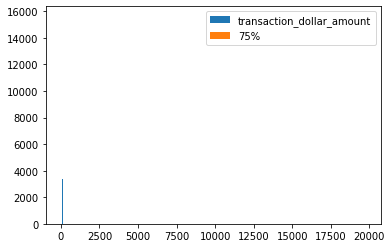
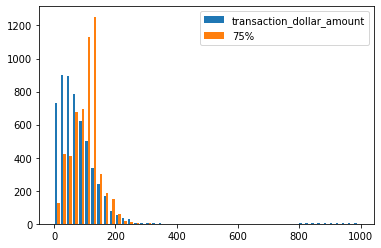
up

Changed region(s): [[0.0, 0.0282, 0.3753, 0.9879], [0.6063, 0.0282, 1.0, 0.9032], [0.231, 0.9032, 0.9816, 0.9879]]

diff --git a/_posts/2020-06-22-Credit-Card-Fraud-Detection.md b/_posts/2020-06-22-Credit-Card-Fraud-Detection.md
@@ -300,6 +300,7 @@ plt.show()
 
 ```python
 ## check the distribution of x3d labels
+
 x3d.label.value_counts()
 ```
 
@@ -318,22 +319,24 @@ x3d.label.value_counts()
 
 
 ```python
-### looks like label 5 is fraud
 
-suspicious_label=5
 
-suspect = credit_df.loc[x3d.label ==5]
+suspicious_label=4
+
+suspect = credit_df.loc[x3d.label ==4]
 
 suspect.to_csv('./suspect',index = False)
 
 cols = ["transaction_dollar_amount",'75%']
 plt.hist(suspect.loc[:,cols].values,bins=50,label=cols)
 plt.legend(loc='best')
+plt.show()
 
 unsuspect = credit_df.loc[x3d.label !=3]
 
 plt.hist(suspect.loc[:,['distance']].values,bins=50,density = True,label = 'suspect')
 plt.hist(unsuspect.loc[:,['distance']].values,bins=50,density = True,label = 'unsuspect')
+plt.legend(loc='best')
 plt.show()
 
 ### deleting 0 distance and replot
@@ -342,6 +345,7 @@ unsuspect = unsuspect.loc[unsuspect.distance>100]
 
 plt.hist(suspect.loc[:,['distance']].values,bins=50,density = True,label = 'suspect')
 plt.hist(unsuspect.loc[:,['distance']].values,bins=50,density = True,label = 'unsuspect')
+plt.legend(loc='best')
 plt.show()
 
 ### Conclusion: Distance is the core factor for detecting the frauds.
@@ -349,7 +353,6 @@ plt.show()
 
 
 
-![png](output_7_0.png)
 <img src="/img/output_777_0.png"/>
 
 
@@ -365,7 +368,8 @@ suspect.shape[0]/credit_df.shape[0]*100
 
 
 
-    38.401767892785855
+1.8483441280703898
+
 
 
 
@@ -378,7 +382,7 @@ suspect['transaction_dollar_amount'].sum()
 
 
 
-    7011068.78
+    444493.55000000005
 
 
 
@@ -400,8 +404,8 @@ r2 = mannwhitneyu(dis_x,dis_y)
 print(r2)
 ```
 
-    (-214.12611385651115, 0.0)
-    MannwhitneyuResult(statistic=437529176.5, pvalue=0.0)
+(184.11775527497144, 0.0)
+MannwhitneyuResult(statistic=14921897.5, pvalue=0.0)
 
 
 
@@ -419,11 +423,5 @@ r2= mannwhitneyu(dis_x,dis_y)
 print(r2)
 ```
 
-    (-39.32269357448229, 0.0)
-    MannwhitneyuResult(statistic=2999978105.5, pvalue=5.025428352403337e-11)
-
-
-
-```python
-
-```
+(11.961471627328077, 5.655073132421734e-33)
+MannwhitneyuResult(statistic=137735388.0, pvalue=1.5637055034033401e-15)
